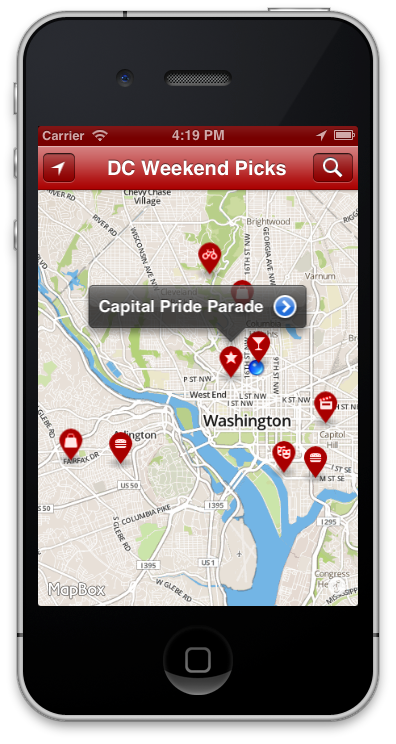
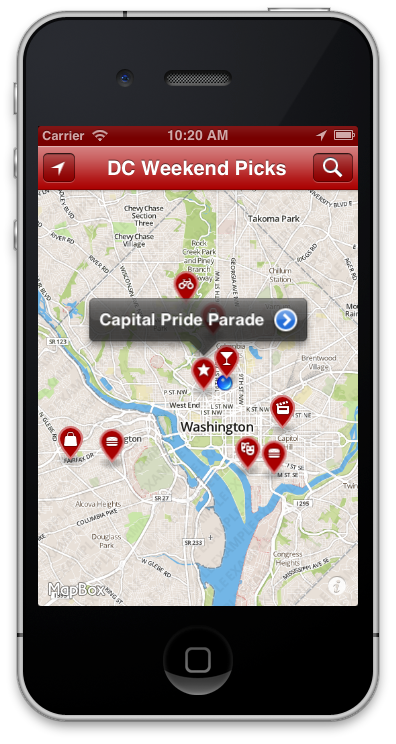
update screenshot for new markers & relative links

Changed region(s): [[0.0909, 0.2473, 0.9091, 0.8347], [0.4242, 0.1546, 0.5758, 0.1855]]

diff --git a/README.md b/README.md
@@ -13,6 +13,6 @@ This is a native iOS app with similar functionality. Once you've got a map with 
 
 Then, just build & run the app and explore your picks! 
 
-![](https://github.com/mapbox/weekend-picks-template-ios/raw/master/screenshot.png)
+![](screenshot.png)
 
 Quick demo video: https://dl.dropbox.com/u/575564/picksvid.mov
